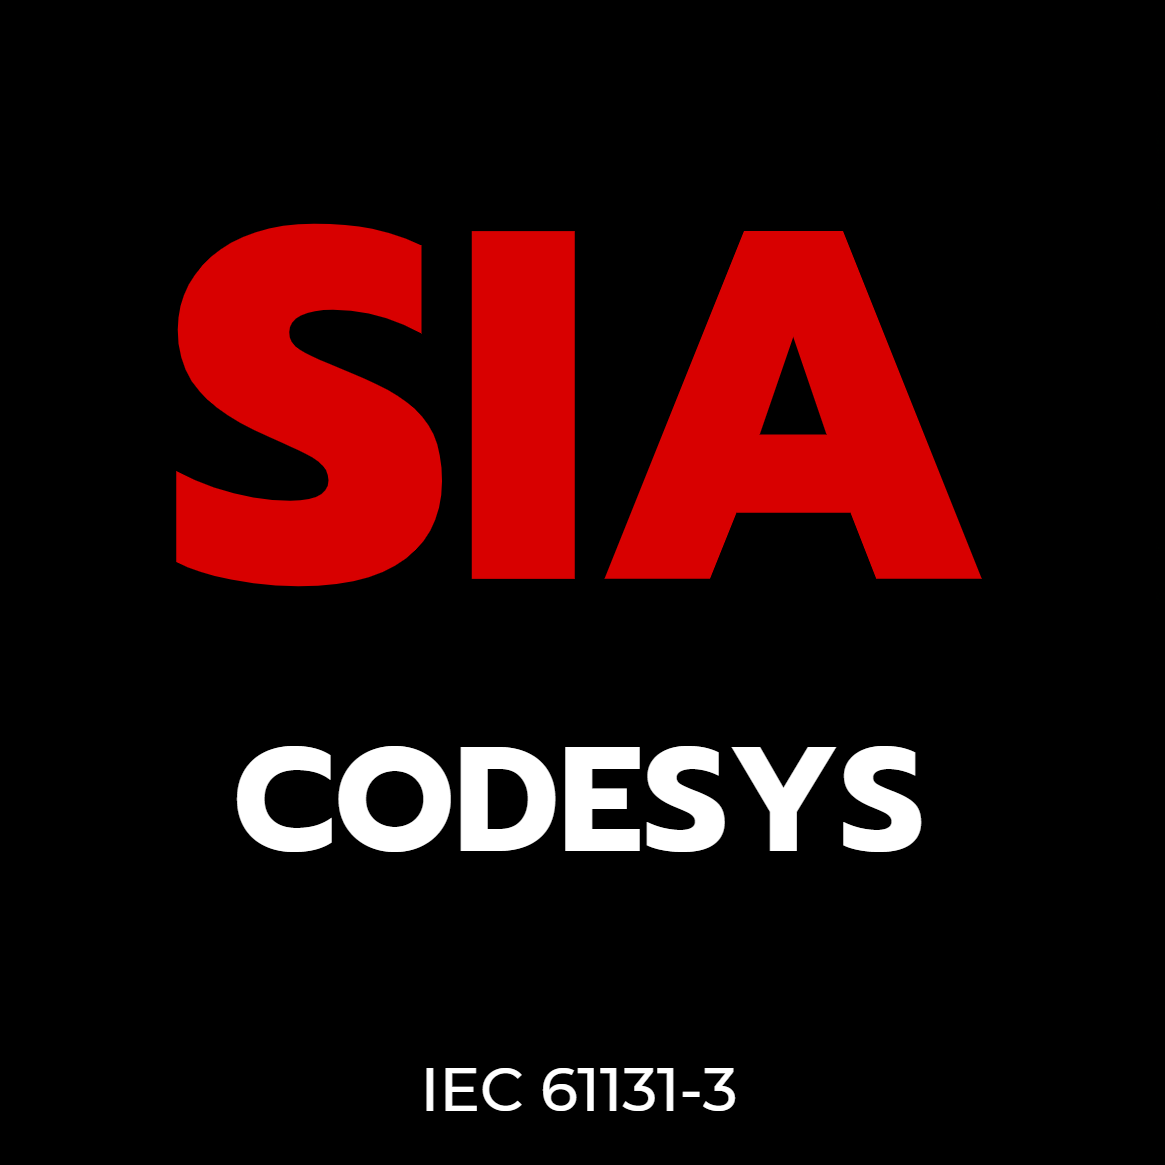
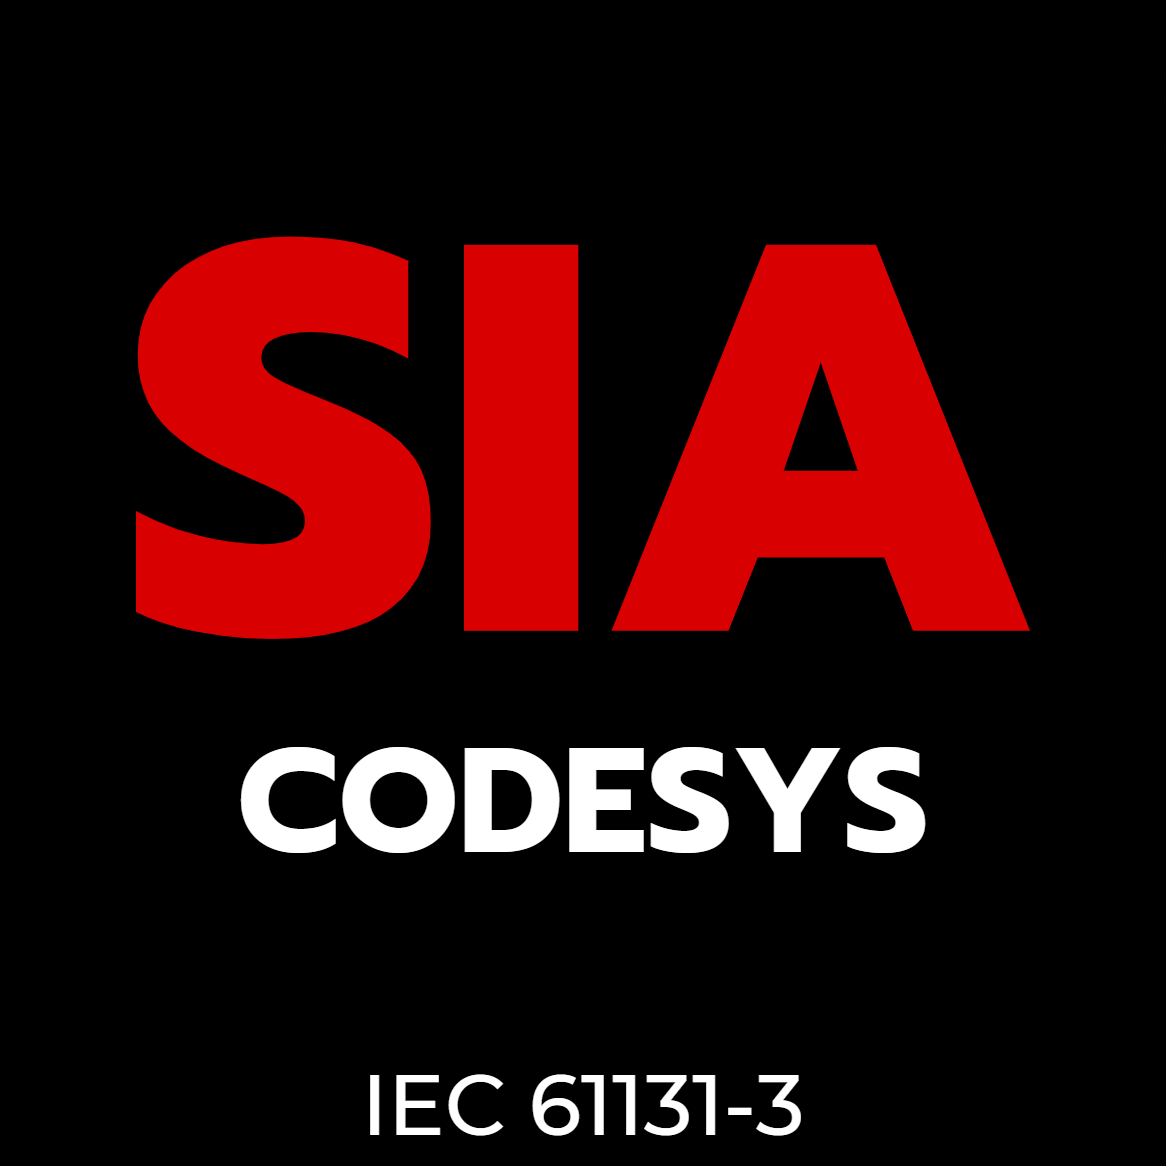
First commit modifications

diff --git a/README.md b/README.md
@@ -19,22 +19,12 @@ A VS Code extension for validating Structured Text (ST) IEC 61131-3 code for COD
 
 ## Commands
 
-- **CODESYS: Validate ST Code** (`Ctrl+Shift+K`)
+- **CODESYS: Validate ST Code** (`Ctrl+Shift+K` or `Ctrl+S`)
   - Validates the currently open ST file and shows results in a notification
 
 - **CODESYS: Validate All ST Files**
   - Runs validation on all `.st` files in the workspace
 
-## Configuration
-
-Add these to your VS Code `settings.json`:
-
-```json
-{
-  "codesysValidator.enableOnSave": true,           // Validate on save (default: true)
-  "codesysValidator.showDetailedMessages": true   // Show detailed error messages (default: true)
-}
-```
 
 ## Notifications Used
 
@@ -51,20 +41,7 @@ All notifications support:
 
 ## Installation
 
-1. Clone or extract this repository
-2. Run `npm install` to install dependencies
-3. Open the folder in VS Code
-4. Press `F5` to launch the extension in debug mode
-5. Package with `vsce package` to create a `.vsix` file
-
-## Development
-
-- **Compile**: `npm run compile`
-- **Watch**: `npm run watch`
-- **Test**: `npm test`
-- **Lint**: `npm run lint`
-
-## Project Structure
+- Could need to restart VSC in order to make it function properly
 
 ```
 .

diff --git a/CHANGELOG.md b/CHANGELOG.md
@@ -2,6 +2,18 @@
 
 All notable changes to the "CODESYS Validator" extension will be documented in this file.
 
+## [0.0.3] - 2026-04-
+
+### Added
+- 
+
+## [0.0.2] - 2026-04-20
+
+### Modified
+- Icon changes
+  - More readable design
+- No changes in code or features
+
 ## [0.0.1] - 2026-04-20
 
 ### Added
